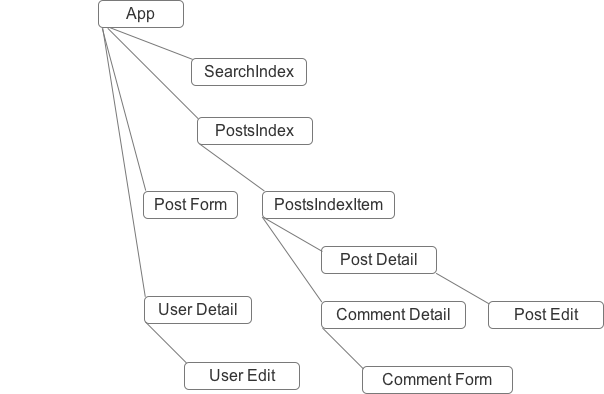
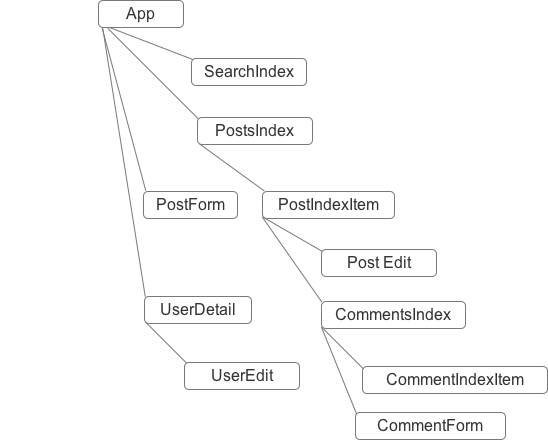
fixed issues: updated wireframes & component hierarchy

diff --git a/docs/components.md b/docs/components.md
@@ -4,9 +4,9 @@
   * `SearchIndex`
   * `PostsIndex`
     * `PostIndexItem`
-      * `Post Detail`
         * `Post Edit`
-      * `Comment Detail`
+      * `Comments Index`
+        * `Comment Index Item`
         * `Comment Form` 
   * `PostForm`
   * `UserDetail`
